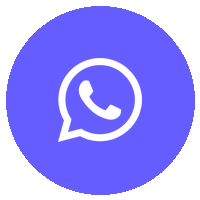
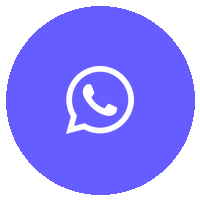
style(signature): cercle violet plus grand, glyphe inchangé (v4)

Changed region(s): [[0.27, 0.27, 0.72, 0.72]]

diff --git a/email-signature.html b/email-signature.html
@@ -30,8 +30,8 @@
                     <table cellpadding="0" cellspacing="0" border="0" style="font-family: Verdana, Arial, sans-serif;">
                       <tbody>
                         <tr style="height: 42px;">
-                          <td width="44" style="width: 44px; vertical-align: middle;">
-                            <img src="https://noecalmes.fr/assets/images/signature/email.png?v=3" alt="Email" width="34" style="display: block; width: 34px; border: 0;" />
+                          <td width="52" style="width: 52px; vertical-align: middle;">
+                            <img src="https://noecalmes.fr/assets/images/signature/email.png?v=4" alt="Email" width="40" style="display: block; width: 40px; border: 0;" />
                           </td>
                           <td style="vertical-align: middle;">
                             <a href="mailto:contact@noecalmes.fr" style="color: #043475; font-size: 15px; line-height: 22px; text-decoration: none;">
@@ -40,8 +40,8 @@
                           </td>
                         </tr>
                         <tr style="height: 42px;">
-                          <td width="44" style="width: 44px; vertical-align: middle;">
-                            <img src="https://noecalmes.fr/assets/images/signature/web.png?v=3" alt="Site web" width="34" style="display: block; width: 34px; border: 0;" />
+                          <td width="52" style="width: 52px; vertical-align: middle;">
+                            <img src="https://noecalmes.fr/assets/images/signature/web.png?v=4" alt="Site web" width="40" style="display: block; width: 40px; border: 0;" />
                           </td>
                           <td style="vertical-align: middle;">
                             <a href="https://noecalmes.fr/" style="color: #043475; font-size: 15px; line-height: 22px; text-decoration: none;">
@@ -55,11 +55,11 @@
                         <tr>
                           <td colspan="2" style="vertical-align: middle; text-align: left;">
                             <a href="https://wa.me/33658308210" style="display: inline-block; text-decoration: none;">
-                              <img src="https://noecalmes.fr/assets/images/signature/whatsapp.png?v=3" alt="WhatsApp" width="34" style="display: inline-block; width: 34px; border: 0;" />
+                              <img src="https://noecalmes.fr/assets/images/signature/whatsapp.png?v=4" alt="WhatsApp" width="40" style="display: inline-block; width: 40px; border: 0;" />
                             </a><span style="display: inline-block; width: 6px;"></span><a href="https://www.linkedin.com/in/noecalmes" style="display: inline-block; text-decoration: none;">
-                              <img src="https://noecalmes.fr/assets/images/signature/linkedin.png?v=3" alt="LinkedIn" width="34" style="display: inline-block; width: 34px; border: 0;" />
+                              <img src="https://noecalmes.fr/assets/images/signature/linkedin.png?v=4" alt="LinkedIn" width="40" style="display: inline-block; width: 40px; border: 0;" />
                             </a><span style="display: inline-block; width: 6px;"></span><a href="https://www.instagram.com/noecalmes.app/" style="display: inline-block; text-decoration: none;">
-                              <img src="https://noecalmes.fr/assets/images/signature/instagram.png?v=3" alt="Instagram" width="34" style="display: inline-block; width: 34px; border: 0;" />
+                              <img src="https://noecalmes.fr/assets/images/signature/instagram.png?v=4" alt="Instagram" width="40" style="display: inline-block; width: 40px; border: 0;" />
                             </a>
                           </td>
                         </tr>
